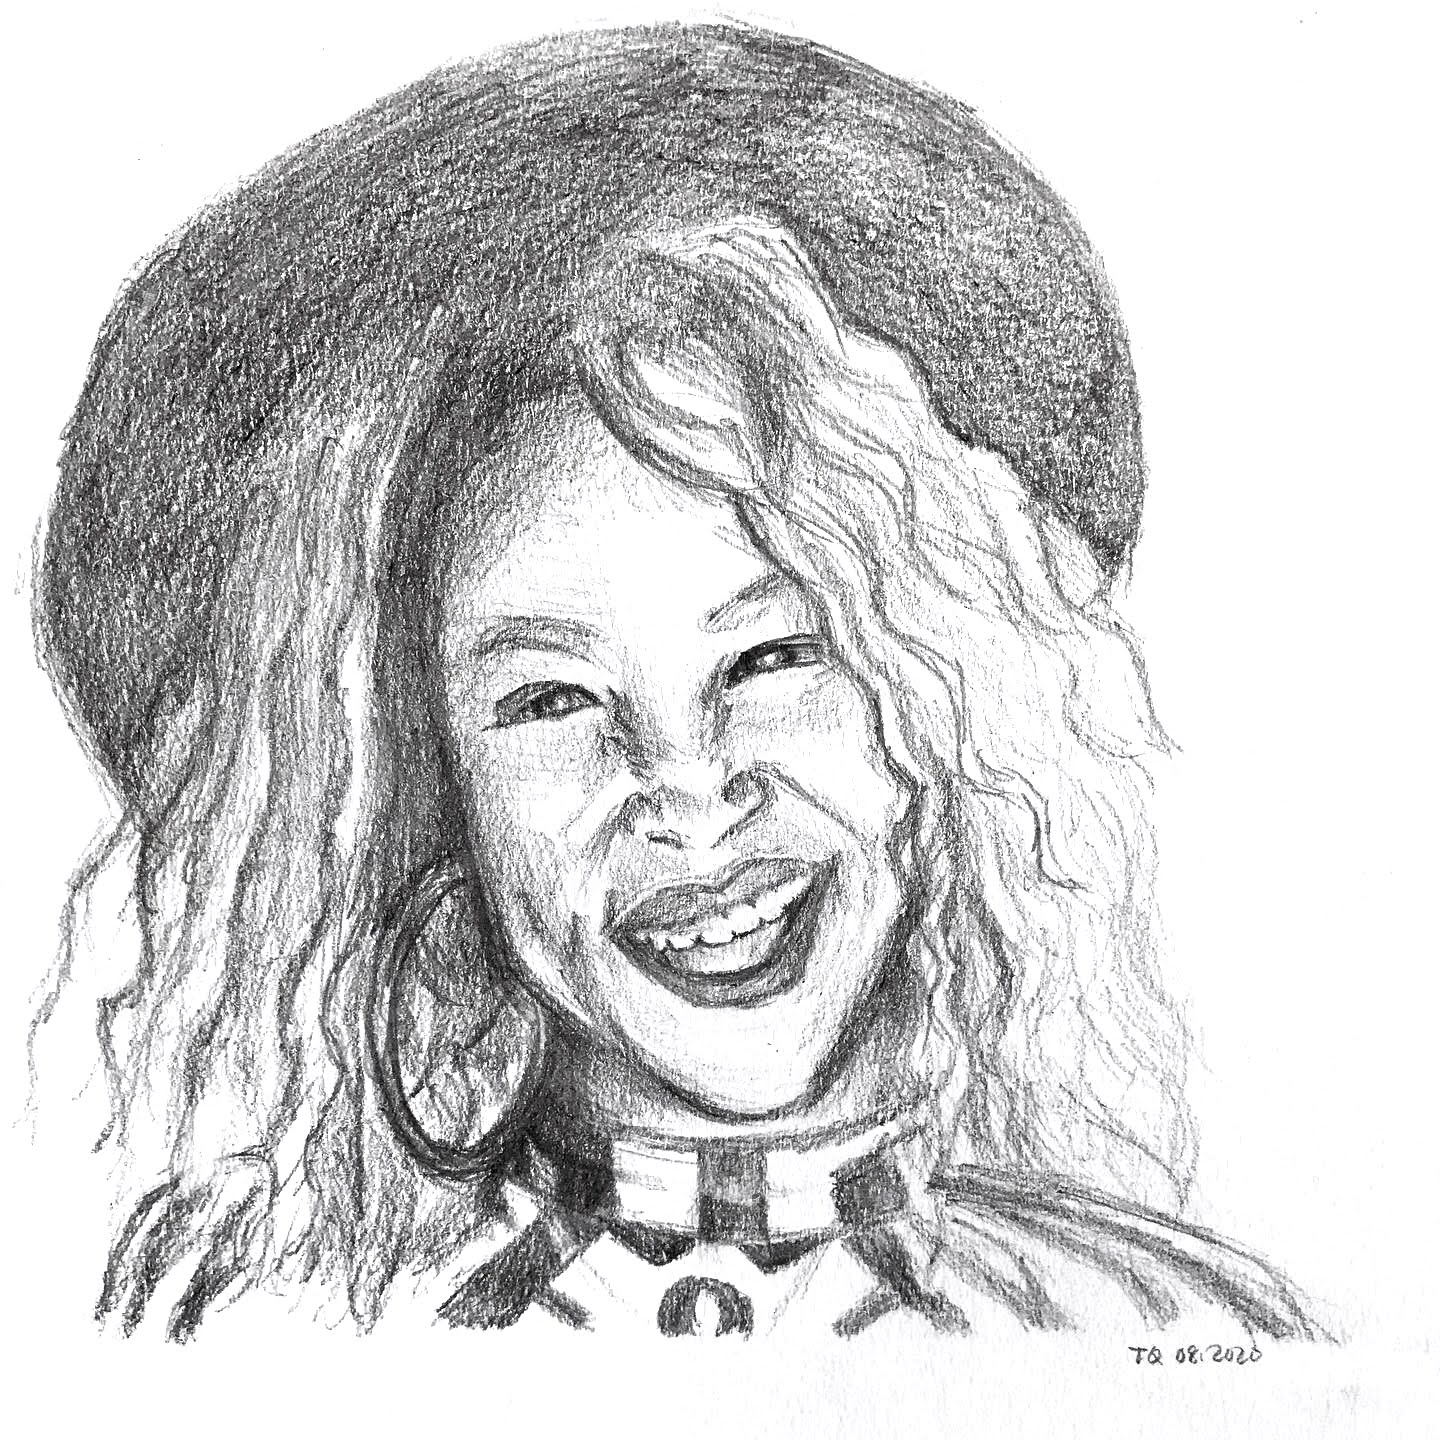
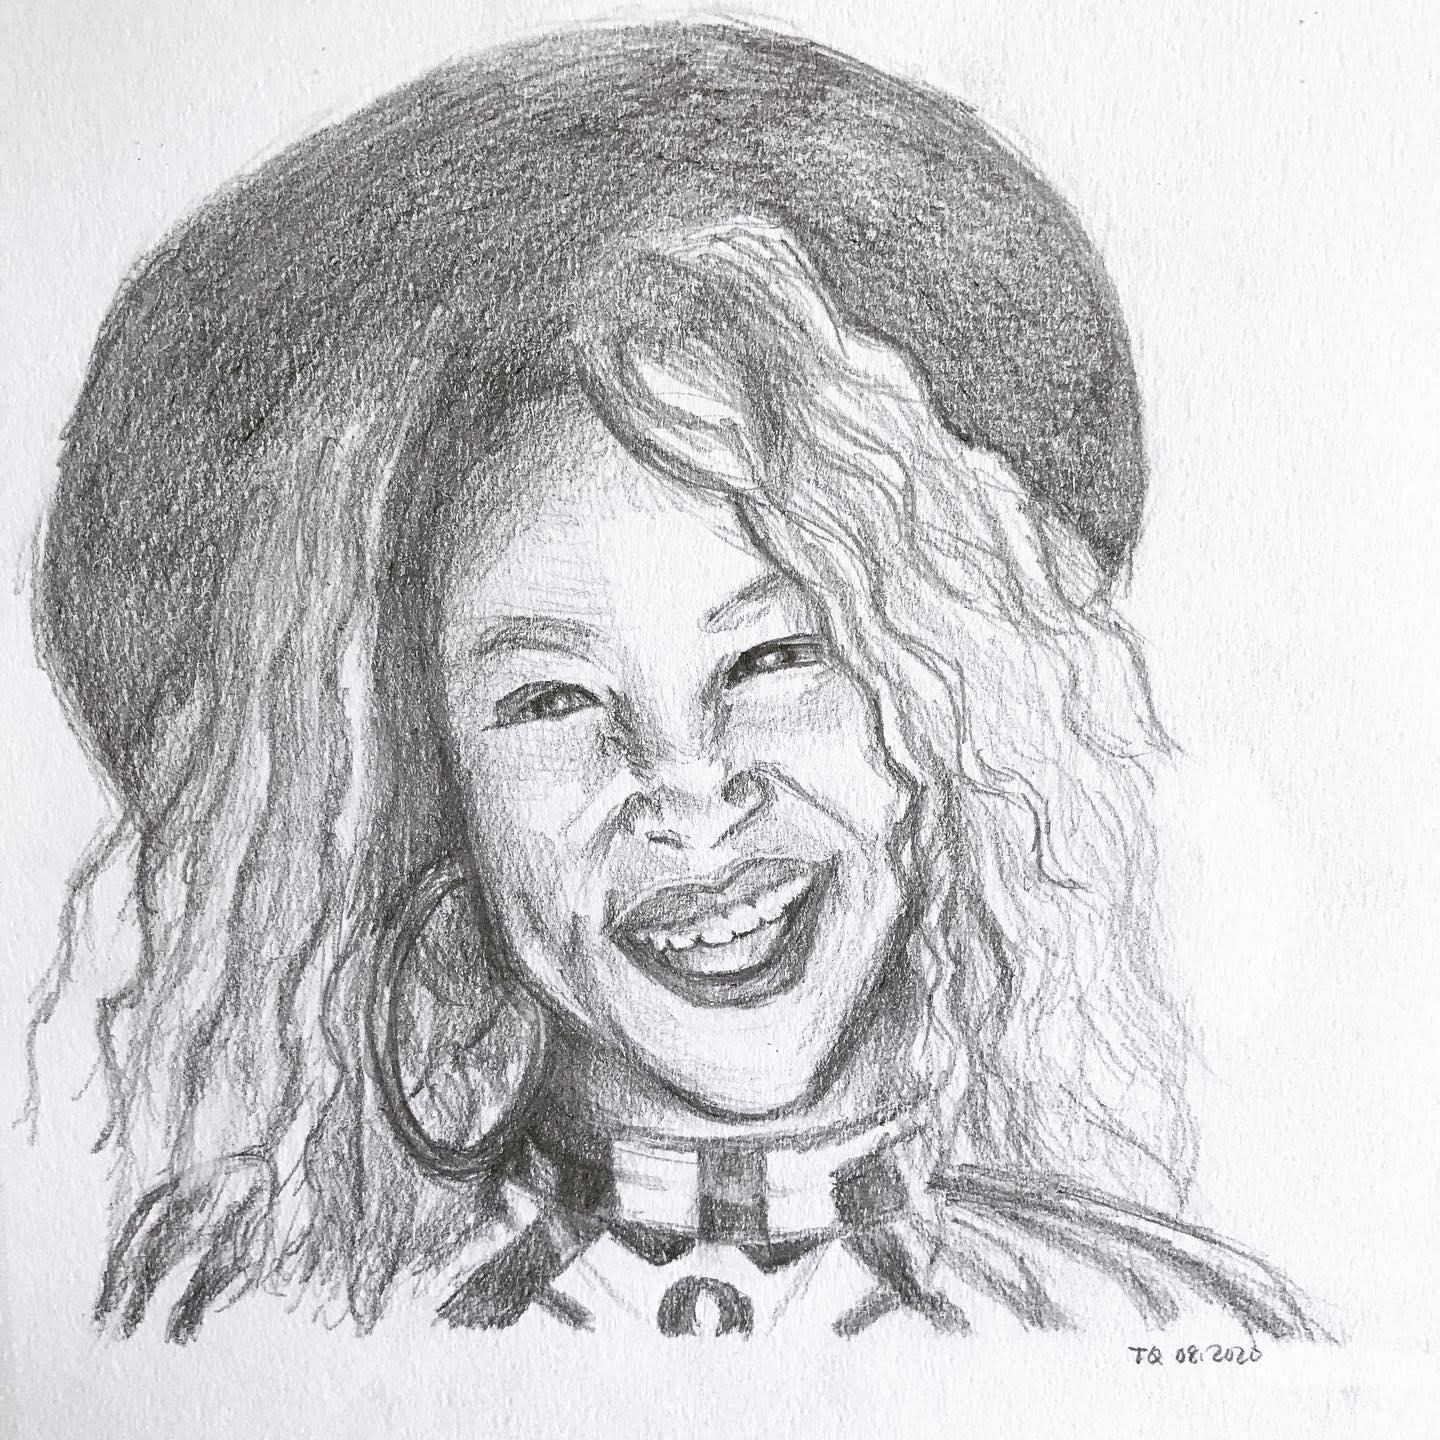
Revert "update images in art"
This reverts commit ec4191e417f1db3c19a09da673d7dc4c39616a3f.

diff --git a/art.html b/art.html
@@ -1,4 +1,4 @@
-<!-- DOCTYPE html--><html><head><meta charset="UTF-8"/><meta name="author" content="Tiffany Qi"/><meta name="description" content="I'm Tiffany Qi, and welcome to my page!"/><meta name="keywords" content="tiffany qi, uc berkeley, mixpanel"/><!-- Open Graph data--><meta property="og:title" content="Tiffany Qi"/><meta property="og:type" content="personal website"/><meta property="og:url" content="http://tiffanyqi.com/"/><meta property="og:description" content="I'm Tiffany Qi, and welcome to my page!"/><link rel="stylesheet" type="text/css" href="assets/css/common.css"/><link rel="shortcut icon" href="assets/img/msc/favicon.ico" type="image/x-icon"/><link rel="icon" href="assets/img/msc/favicon.ico" type="image/x-icon"/><script src="https://ajax.googleapis.com/ajax/libs/jquery/1.11.0/jquery.min.js"></script><script src="assets/js/mixpanel.js"></script><script src="assets/js/script.js"></script><link href="http://fonts.googleapis.com/css?family=PT+Sans:400,700,400italic" rel="stylesheet" type="text/css"/><link href="http://fonts.googleapis.com/css?family=Montez" rel="stylesheet" type="text/css"/><link rel="stylesheet" type="text/css" href="assets/css/photography.css"/><title>Tiffany Qi | Art</title></head><body><!-- Navigation--><div class="navbar"><div id="title"><div class="navbar-item"><a href="index" id="index">Tiffany Qi</a></div></div><div class="navbar-items"><div class="navbar-item"><a href="about" id="about">about</a></div><div class="navbar-item"><a href="engineering" id="engineering">engineering</a></div><div class="navbar-item"><a href="baking-home" id="baking">baking</a></div><div class="navbar-item"><a href="art" id="art">art</a></div><div class="navbar-item"><a href="photography" id="photography">photography</a></div><div class="navbar-item"><a href="writing" id="writing">writing</a></div></div></div><div class="btn-container"><button id="gridButton" class="btn">Grid</button><button id="largeButton" class="btn">Full</button></div><div class="container"><h1>Art</h1><p>Contact me on <a href="https://instagram.com/aerial_baker">Instagram</a> for commissions</p><h2>Food circus art</h2><div class="picture-container"><div class="large-picture-container"><img src="assets/img/reel/art-food-spaghetti.jpg" class="large-picture"/><div class="picture-caption">Spaghetti rope, Alex James Allan</div></div><div class="large-picture-container"><img src="assets/img/reel/art-food-isabella.jpg" class="large-picture"/><div class="picture-caption">Flour smoke, Isabella Fonte</div></div><div class="large-picture-container"><img src="assets/img/reel/art-food-david.jpg" class="large-picture"/><div class="picture-caption">Grapefruit peel lyra, David Nguyen</div></div><div class="large-picture-container"><img src="assets/img/reel/art-food-air-candy.jpg" class="large-picture"/><div class="picture-caption">Pink milk silks, @air.candy</div></div><div class="large-picture-container"><img src="assets/img/reel/art-food-mizuki.jpg" class="large-picture"/><div class="picture-caption">Red liquid silks, Mizuki Shinagawa</div></div><div class="large-picture-container"><img src="assets/img/reel/art-food-alex.jpg" class="large-picture"/><div class="picture-caption">Licorice and macaron trapeze, Lex Morgan</div></div><div class="large-picture-container"><img src="assets/img/reel/art-food-sugar.jpg" class="large-picture"/><div class="picture-caption">Isomalt cage, Tiffany</div></div><div class="large-picture-container"><img src="assets/img/reel/art-food-veronica.jpg" class="large-picture"/><div class="picture-caption">Chocolate straps, Veronica Blair</div></div><div class="large-picture-container"><img src="assets/img/reel/art-food-brownie.jpg" class="large-picture"/><div class="picture-caption">Brownie box, Ash Rex</div></div><div class="large-picture-container"><img src="assets/img/reel/art-food-viktor.JPG" class="large-picture"/><div class="picture-caption">Blueberry juggling, Viktor</div></div><div class="large-picture-container"><img src="assets/img/reel/art-food-christine.jpg" class="large-picture"/><div class="picture-caption">Black sesame chiffon cork, Christine Lee</div></div><div class="large-picture-container"><img src="assets/img/reel/art-food-orange.jpg" class="large-picture"/><div class="picture-caption">Orange umbrella, Karisha Abramenko</div></div><div class="large-picture-container"><img src="assets/img/reel/art-food-silks.jpg" class="large-picture"/><div class="picture-caption">Black pasta silks, Jill Franklin</div></div><div class="large-picture-container"><img src="assets/img/reel/art-food-beets.jpg" class="large-picture"/><div class="picture-caption">Beet noodles silks, Thai &amp; Anastasia</div></div><div class="large-picture-container"><img src="assets/img/reel/art-food-simone.jpg" class="large-picture"/><div class="picture-caption">Choux beams, Simone Biles</div></div></div><h2>Portraits and people</h2><div class="picture-container"><div class="large-picture-container"><img src="assets/img/reel/art-portrait-glo.jpg" class="large-picture"/><div class="picture-caption">Glographics</div></div><div class="large-picture-container"><img src="assets/img/reel/art-portrait-chadwick.jpg" class="large-picture"/><div class="picture-caption">Chadwick Boseman</div></div><div class="large-picture-container"><img src="assets/img/reel/art-portrait-george.jpg" class="large-picture"/><div class="picture-caption">George Floyd</div></div><div class="large-picture-container"><img src="assets/img/reel/art-portrait-self.jpg" class="large-picture"/><div class="picture-caption">Self portrait</div></div><div class="large-picture-container"><img src="assets/img/reel/art-portrait-wheesung.jpg" class="large-picture"/><div class="picture-caption">Wheesung</div></div><div class="large-picture-container"><img src="assets/img/reel/art-portrait-wing.jpg" class="large-picture"/><div class="picture-caption">Wing</div></div><div class="large-picture-container"><img src="assets/img/reel/art-portrait-claire.jpg" class="large-picture"/><div class="picture-caption">Claire and sourdough</div></div><div class="large-picture-container"><img src="assets/img/reel/art-circus-maia.JPG" class="large-picture"/><div class="picture-caption">Maia</div></div><div class="large-picture-container"><img src="assets/img/reel/art-circus-angela.jpg" class="large-picture"/><div class="picture-caption">Angela</div></div><div class="large-picture-container"><img src="assets/img/reel/art-circus-jeyne.JPG" class="large-picture"/><div class="picture-caption">Jeyne Butterfly</div></div></div></div><script>$('#gridButton').on('click', function() {
+<!-- DOCTYPE html--><html><head><meta charset="UTF-8"/><meta name="author" content="Tiffany Qi"/><meta name="description" content="I'm Tiffany Qi, and welcome to my page!"/><meta name="keywords" content="tiffany qi, uc berkeley, mixpanel"/><!-- Open Graph data--><meta property="og:title" content="Tiffany Qi"/><meta property="og:type" content="personal website"/><meta property="og:url" content="http://tiffanyqi.com/"/><meta property="og:description" content="I'm Tiffany Qi, and welcome to my page!"/><link rel="stylesheet" type="text/css" href="assets/css/common.css"/><link rel="shortcut icon" href="assets/img/msc/favicon.ico" type="image/x-icon"/><link rel="icon" href="assets/img/msc/favicon.ico" type="image/x-icon"/><script src="https://ajax.googleapis.com/ajax/libs/jquery/1.11.0/jquery.min.js"></script><script src="assets/js/mixpanel.js"></script><script src="assets/js/script.js"></script><link href="http://fonts.googleapis.com/css?family=PT+Sans:400,700,400italic" rel="stylesheet" type="text/css"/><link href="http://fonts.googleapis.com/css?family=Montez" rel="stylesheet" type="text/css"/><link rel="stylesheet" type="text/css" href="assets/css/photography.css"/><title>Tiffany Qi | Art</title></head><body><!-- Navigation--><div class="navbar"><div id="title"><div class="navbar-item"><a href="index" id="index">Tiffany Qi</a></div></div><div class="navbar-items"><div class="navbar-item"><a href="about" id="about">about</a></div><div class="navbar-item"><a href="engineering" id="engineering">engineering</a></div><div class="navbar-item"><a href="baking-home" id="baking">baking</a></div><div class="navbar-item"><a href="art" id="art">art</a></div><div class="navbar-item"><a href="photography" id="photography">photography</a></div><div class="navbar-item"><a href="writing" id="writing">writing</a></div></div></div><div class="btn-container"><button id="gridButton" class="btn">Grid</button><button id="largeButton" class="btn">Full</button></div><div class="container"><h1>Art</h1><h2>Food circus art</h2><div class="picture-container"><div class="large-picture-container"><img src="assets/img/reel/art-food-isabella.jpg" class="large-picture"/><div class="picture-caption">Flour smoke, Isabella Fonte</div></div><div class="large-picture-container"><img src="assets/img/reel/art-food-spaghetti.jpg" class="large-picture"/><div class="picture-caption">Spaghetti rope, Alex James Allan</div></div><div class="large-picture-container"><img src="assets/img/reel/art-food-david.jpg" class="large-picture"/><div class="picture-caption">Grapefruit peel lyra, David Nguyen</div></div><div class="large-picture-container"><img src="assets/img/reel/art-food-air-candy.png" class="large-picture"/><div class="picture-caption">Pink milk silks, @air.candy</div></div><div class="large-picture-container"><img src="assets/img/reel/art-food-sugar.jpg" class="large-picture"/><div class="picture-caption">Isomalt cage, Tiffany</div></div><div class="large-picture-container"><img src="assets/img/reel/art-food-veronica.jpg" class="large-picture"/><div class="picture-caption">Chocolate straps, Veronica Blair</div></div><div class="large-picture-container"><img src="assets/img/reel/art-food-viktor.JPG" class="large-picture"/><div class="picture-caption">Blueberry juggling, Viktor</div></div><div class="large-picture-container"><img src="assets/img/reel/art-food-christine.jpeg" class="large-picture"/><div class="picture-caption">Black sesame chiffon cork, Christine Lee</div></div><div class="large-picture-container"><img src="assets/img/reel/art-food-orange.jpg" class="large-picture"/><div class="picture-caption">Orange umbrella, Karisha Abramenko</div></div><div class="large-picture-container"><img src="assets/img/reel/art-food-chadwick.jpg" class="large-picture"/><div class="picture-caption">Tomato and zucchini roses, Chadwick Boseman</div></div><div class="large-picture-container"><img src="assets/img/reel/art-food-silks.jpg" class="large-picture"/><div class="picture-caption">Black pasta silks, Jill Franklin</div></div><div class="large-picture-container"><img src="assets/img/reel/art-food-beets.jpg" class="large-picture"/><div class="picture-caption">Beet noodles silks, Thai &amp; Anastasia</div></div><div class="large-picture-container"><img src="assets/img/reel/art-food-simone.jpg" class="large-picture"/><div class="picture-caption">Meringue beams, Simone Biles</div></div><div class="large-picture-container"><img src="assets/img/reel/art-food-totoro.jpg" class="large-picture"/><div class="picture-caption">Shiso umbrella, Totoro</div></div></div><h2>Portraits and people</h2><div class="picture-container"><div class="large-picture-container"><img src="assets/img/reel/art-portrait-glo.jpg" class="large-picture"/><div class="picture-caption">Glographics</div></div><div class="large-picture-container"><img src="assets/img/reel/art-portrait-george.jpg" class="large-picture"/><div class="picture-caption">George Floyd</div></div><div class="large-picture-container"><img src="assets/img/reel/art-portrait-mizuki.jpg" class="large-picture"/><div class="picture-caption">Mizuki</div></div><div class="large-picture-container"><img src="assets/img/reel/art-portrait-self.jpg" class="large-picture"/><div class="picture-caption">Self portrait</div></div><div class="large-picture-container"><img src="assets/img/reel/art-portrait-wheesung.jpg" class="large-picture"/><div class="picture-caption">Wheesung</div></div><div class="large-picture-container"><img src="assets/img/reel/art-portrait-wing.jpg" class="large-picture"/><div class="picture-caption">Wing</div></div><div class="large-picture-container"><img src="assets/img/reel/art-circus-maia.jpg" class="large-picture"/><div class="picture-caption">Maia</div></div><div class="large-picture-container"><img src="assets/img/reel/art-circus-angela.jpg" class="large-picture"/><div class="picture-caption">Angela</div></div><div class="large-picture-container"><img src="assets/img/reel/art-circus-jeyne.jpg" class="large-picture"/><div class="picture-caption">Jeyne Butterfly</div></div></div><h2>Hands</h2><div class="picture-container"><div class="large-picture-container"><img src="assets/img/reel/art-hand-claire.jpg" class="large-picture"/><div class="picture-caption">Claire and sourdough</div></div><div class="large-picture-container"><img src="assets/img/reel/art-hand-pudding.jpg" class="large-picture"/><div class="picture-caption">Chocolate pudding pie</div></div><div class="large-picture-container"><img src="assets/img/reel/art-hand-croissant.jpg" class="large-picture"/><div class="picture-caption">Forming croissants</div></div><div class="large-picture-container"><img src="assets/img/reel/art-hand-cupcake.jpg" class="large-picture"/><div class="picture-caption">Constructing cupcakes</div></div><div class="large-picture-container"><img src="assets/img/reel/art-hand-dough.jpg" class="large-picture"/><div class="picture-caption">Shaping bread</div></div><div class="large-picture-container"><img src="assets/img/reel/art-hand-dumpling.jpg" class="large-picture"/><div class="picture-caption">Crimping dumplings</div></div><div class="large-picture-container"><img src="assets/img/reel/art-hand-wonton.jpg" class="large-picture"/><div class="picture-caption">Folding wontons</div></div><div class="large-picture-container"><img src="assets/img/reel/art-hand-xlb.jpg" class="large-picture"/><div class="picture-caption">Folding XLB</div></div><div class="large-picture-container"><img src="assets/img/reel/art-hand-heart.jpg" class="large-picture"/><div class="picture-caption">Heart</div></div><div class="large-picture-container"><img src="assets/img/reel/art-hand-reaching.jpg" class="large-picture"/><div class="picture-caption">Reaching</div></div><div class="large-picture-container"><img src="assets/img/reel/art-hand-silks.jpg" class="large-picture"/><div class="picture-caption">Enrobing silks</div></div></div></div><script>$('#gridButton').on('click', function() {
   return convertToGrid();
 });
 $('#largeButton').on('click', function() {
